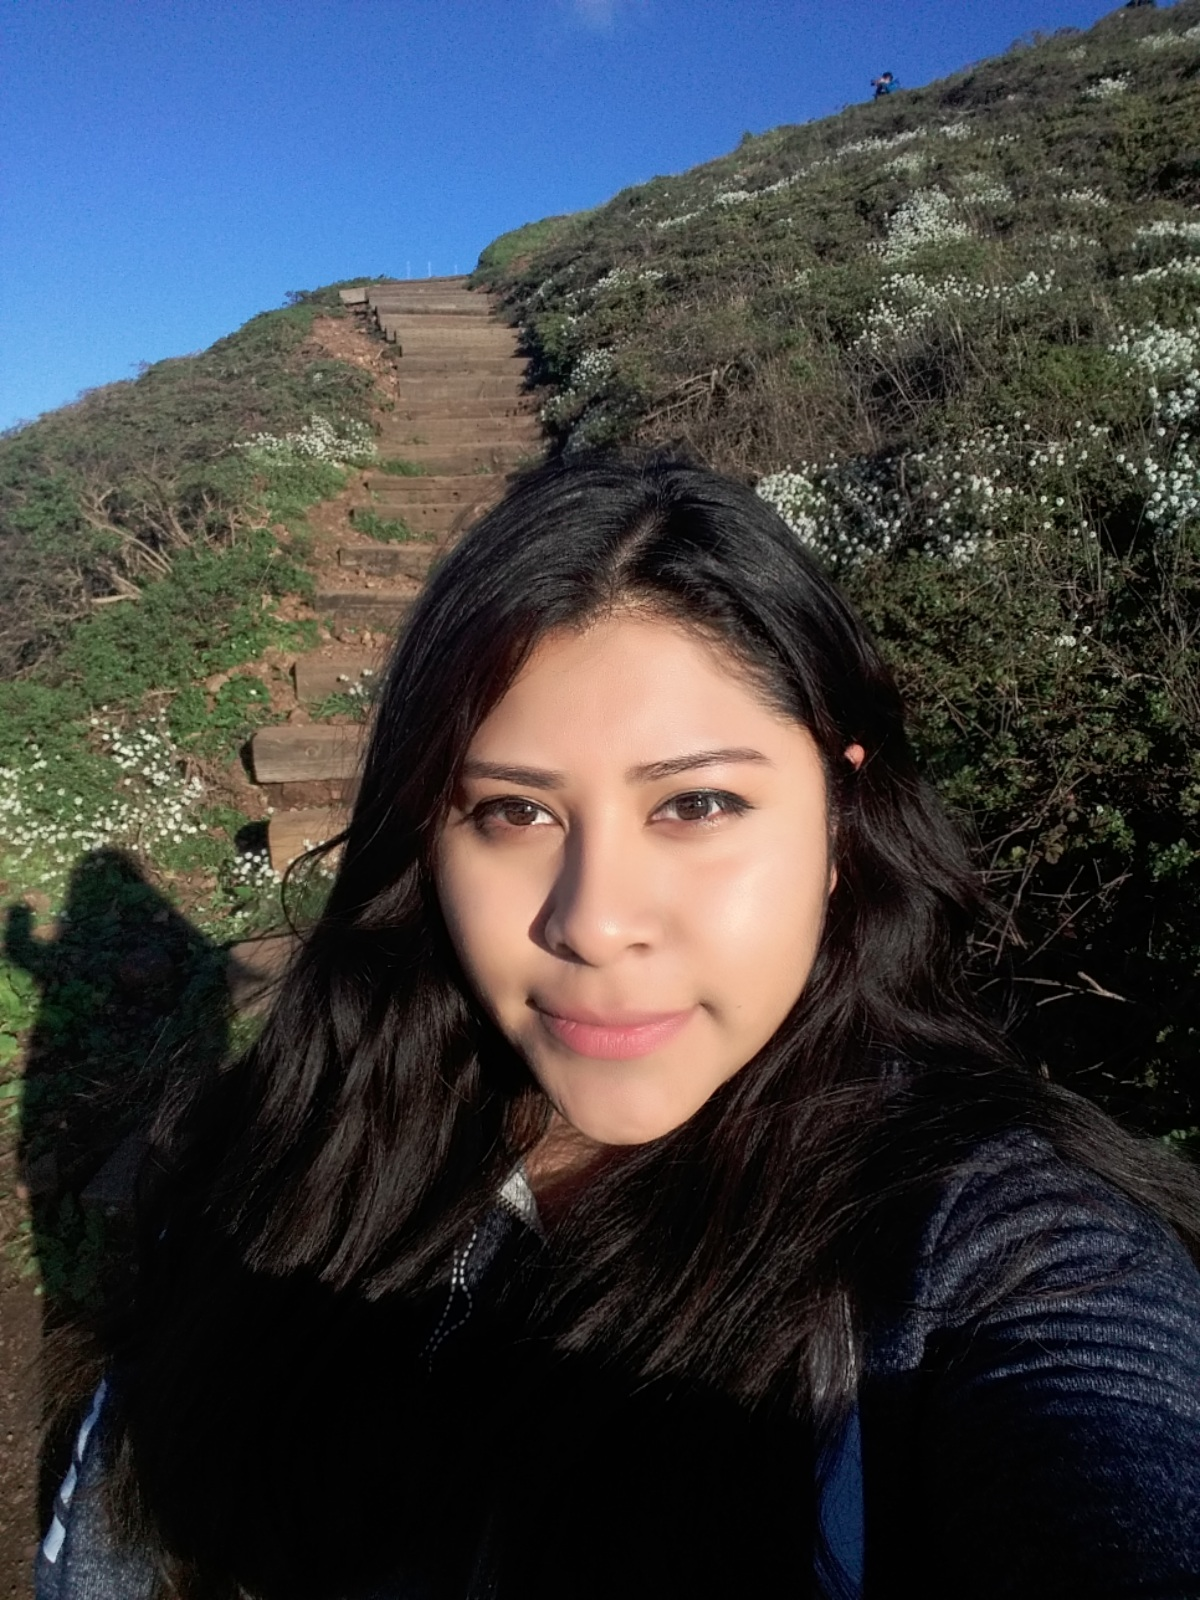
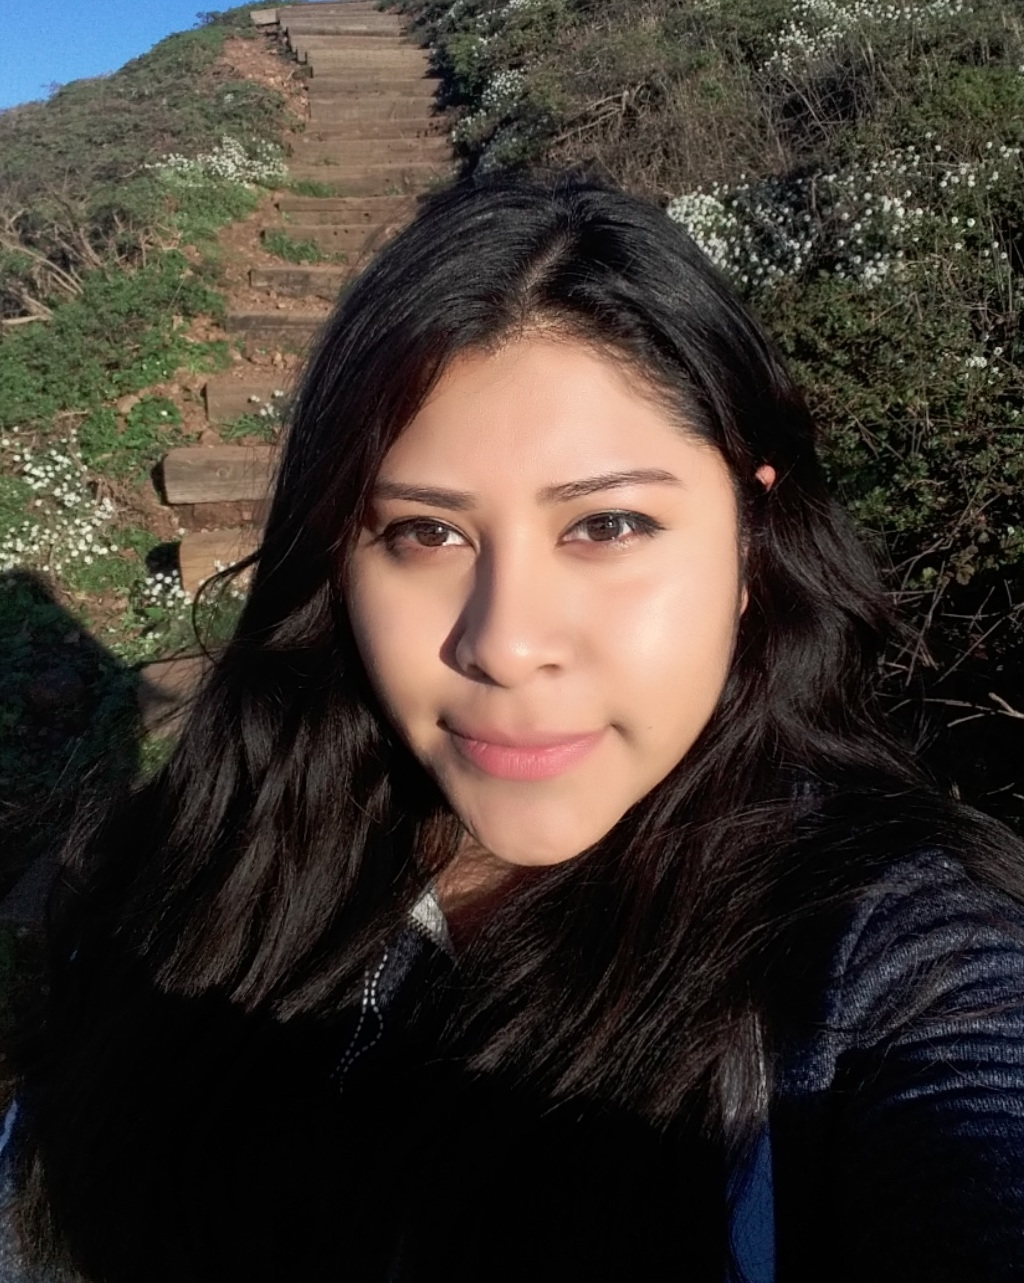
divs
changing about pictures and relocating the space on the center

diff --git a/one page/index.html b/one page/index.html
@@ -95,7 +95,8 @@
 			<div class="about_overlay">
 				<div class="container chikobiko">
 						<div class="user_seperator text-center">
-							<a href=""><i class="lnr lnr-user"></i></a>
+              <!-- <img class="photo" src="assets/images/Selfie.jpg" alt="Zuri Gonzalez"> -->
+              <a href=""><img class="photo" src="assets/images/Selfie.jpg" alt="Zuri Gonzalez"></a>
 						</div>
 					<div class="row aaa">
 							<div class="head_title text-center">
@@ -113,11 +114,11 @@
 										<h4>My Skill</h4>
 									</div>
                   <!-- here you cad add badges or icon pictures -->
-                  <a href=""><img src="assets/images/ab1.png" alt="" /></a>
+                  <!-- <a href=""><img src="assets/images/ab1.png" alt="" /></a>
 									<a href=""><img src="assets/images/ab2.png" alt="" /></a>
 									<a href=""><img src="assets/images/ab3.png" alt="" /></a>
 									<a href=""><img src="assets/images/ab4.png" alt="" /></a>
-									<a href=""><img src="assets/images/ab5.png" alt="" /></a>
+									<a href=""><img src="assets/images/ab5.png" alt="" /></a> -->
 								</div>
 							</div>
 
@@ -604,18 +605,18 @@
 
 										<div class="single_contact_phone">
 											<h3>Address:</h3>
-											<span>Building, 123 Main Street, City Country</span>
+											<span> San Francisco, CA.</span>
 
 										</div>
 
 										<div class="single_contact_phone">
 											<h3>Phone:</h3>
-											<span>+48 202 - 555 - 0114</span>
+											<span>+1 415 240 6608</span>
 										</div>
 
 										<div class="single_contact_phone">
 											<h3>Email:</h3>
-											<span>XS@yoursite.com</span>
+											<span>zuri@devmission.org</span>
 										</div>
 
 										<div class="contact_socail_bookmark">

diff --git a/one page/assets/css/style.css b/one page/assets/css/style.css
@@ -63,7 +63,7 @@ section:nth-child(even){
 
 
 img {
-    -moz-user-select: none;
+    -moz-photo-select: none;
     -webkit-user-select: none;
     -ms-user-select: none;
     user-select: none;
@@ -548,7 +548,7 @@ input:-ms-input-placeholder {
   width: 100%;
   overflow: hidden;
 }*/
- navbar section
+ /*navbar section*/
 .menu-scroll {
     padding-top: 0px;
     padding-bottom: 0px;
@@ -634,9 +634,9 @@ input:-ms-input-placeholder {
 
 /* about Section */
 .user_seperator{
-    position: absolute;
+    position:  inherit;
     left: 45%;
-    top:-140px;
+    /*top:-140px;*/
     z-index: 99;
 }
 .user_seperator a i{
@@ -1224,3 +1224,13 @@ a.s_f_8:hover{
 	text-decoration: none;
 
 }
+
+
+
+.photo {
+    width: 50%;
+    border-radius: 30%;
+    display: block;
+    margin-left: auto;
+    margin-right: auto;
+  }

diff --git a/one page/assets/css/fonticons.css b/one page/assets/css/fonticons.css
@@ -150,7 +150,7 @@
 .lnr-bookmark:before {
 	content: "\e829";
 }
-.lnr-user:before {
+.photo:before {
 	content: "\e82a";
 }
 .lnr-users:before {
